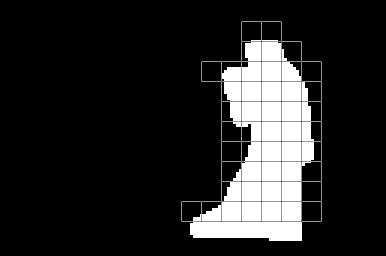
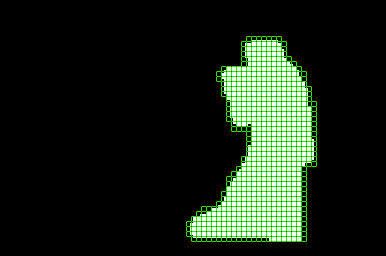
first forward pass 2

Changed region(s): [[0.4663, 0.125, 0.8394, 0.9688], [0.6218, 0.0625, 0.715, 0.0938]]

diff --git a/node.cpp b/node.cpp
@@ -92,7 +92,7 @@ void Node::pushConditioned(const Label& label,int lmin,int lmax) {
     }
 }
 
-Label Node::label(int i){
+Label Node::label(int i) const{
     assert(i<nodeConfusionSet.size());
     return nodeConfusionSet[i];}
 
@@ -520,7 +520,35 @@ void forwardPass(std::vector<Node> &InitialPriority,const Image &imageInput, con
 }
 
 
+Image imageReconstructed(const std::vector<Node> &InitialPriority, int patchSize,Image inputImage,Image maskImage){
+    std::cout<<"bonjour"<<std::endl;
+    Image imageReconstructed=maskImage.clone();
+    for (size_t i=0;i<InitialPriority.size();i++){
+        std::cout<<i<<std::endl;
+        if (InitialPriority[i].size()>1){
+        Point p=InitialPriority[i].point();
 
+        Label l=InitialPriority[i].label(0);
+        Point lp=l.point();
+        for (int x=-patchSize/2;x<=patchSize/2;x++){
+            for (int y=-patchSize/2;y<=patchSize/2;y++){
+                std::cout<<p.first+x<<"and"<<lp.first+x<<std::endl;
+                if (p.first+x<imageReconstructed.width() && p.first+x>=0
+                        && p.second+x<imageReconstructed.height() && p.first+x>=0
+                        && lp.first+x<imageReconstructed.width() && lp.first+x>=0
+                        && lp.second+x<imageReconstructed.height() && lp.first+x>=0 ){
+                imageReconstructed(p.first+x,p.second+y)=inputImage(lp.first+x,lp.second+y);
+                std::cout<<p.first+x<<"and"<<lp.first+x<<std::endl;
+
+                }
+
+            }
+        }
+    }
+
+    }
+    return imageReconstructed;
+}
 
 
 

diff --git a/main.cpp b/main.cpp
@@ -60,7 +60,7 @@ int main(int argc, char *argv[]) {
         std::cout<<"Une seule image demandée"<<std::endl;
         return 0; //here we only want one picture --> test
     }
-    int patchsize=41;
+    int patchsize=11;
     int lmin=3;
     int lmax=20;
     int thresholdConfusion =-patchsize*patchsize*50;
@@ -78,6 +78,8 @@ int main(int argc, char *argv[]) {
 
     forwardPass(priorities,imageInput,imageExtendedMask,patchsize,thresholdSimilarity,thresholdConfusion,lmin,lmax);
 
+    Image reconstructed=imageReconstructed(priorities,patchsize,imageInput,imageMask);
+    /*
     int pruned=0;
     int non_pruned=0;
 
@@ -114,14 +116,19 @@ int main(int argc, char *argv[]) {
         }
 
     }
+    */
 
+    if(! save_image("/Users/felixfourreau/Desktop/ProjetStageCourt/data/reconstructed.png", imageInput)) {
+        std::cerr << "Error writing file " << std::endl;
+        return 1;
+    }/*
     Image nodesAndVertices=visualiseNodesAndVertices(imageMask,v,patchsize);
 
     // Utile pour enregistrer l'image
     if(! save_image(argv[3], nodesAndVertices)) {
         std::cerr << "Error writing file " << std::endl;
         return 1;
-    }
+    }*/
 
 
     if(! save_image("/Users/felixfourreau/Desktop/ProjetStageCourt/data/confusion_set.png" , imageInput)) {

diff --git a/node.h b/node.h
@@ -79,13 +79,15 @@ public:
     int getTopNeighbor(){return topNeighbor;}
     int getBottomNeighbor(){return bottomNeighbor;}
 
-    int size(){return int(nodeConfusionSet.size());}
+    int size()const {return int(nodeConfusionSet.size());}
 
     int worstBelief();
 
+
+
     void pushConditioned(const Label& label,int lmin,int lmax);
 
-    Label label(int i);
+    Label label(int i)const;
 
     bool similarityCondition(const Image &imageInput, Point &pointLabel,int thresholdSimilarity , int patchSize);
     bool thresholdConfusion(int thresholdCondition,int lmin);
@@ -112,3 +114,8 @@ std::vector<Node> assignInitialPriority( const Image& inputImage,const Image& ma
 
 
 void forwardPass(std::vector<Node> &InitialPriority,const Image &imageInput, const Image &imageMaskExtended,int patchSize,int thresholdSimilarity,int thresholdConfusion,int lmin,int lmax);
+
+
+Image imageReconstructed(const std::vector<Node> &InitialPriority, int patchSize,Image inputImage,Image maskImage);
+
+

diff --git a/image.h b/image.h
@@ -85,4 +85,10 @@ bool save_disparity(const char* file_name, const Image& disparity,
 
 
 bool save_image(const char* fileName, const Image& img) ;
+
+
 #endif
+
+
+
+
